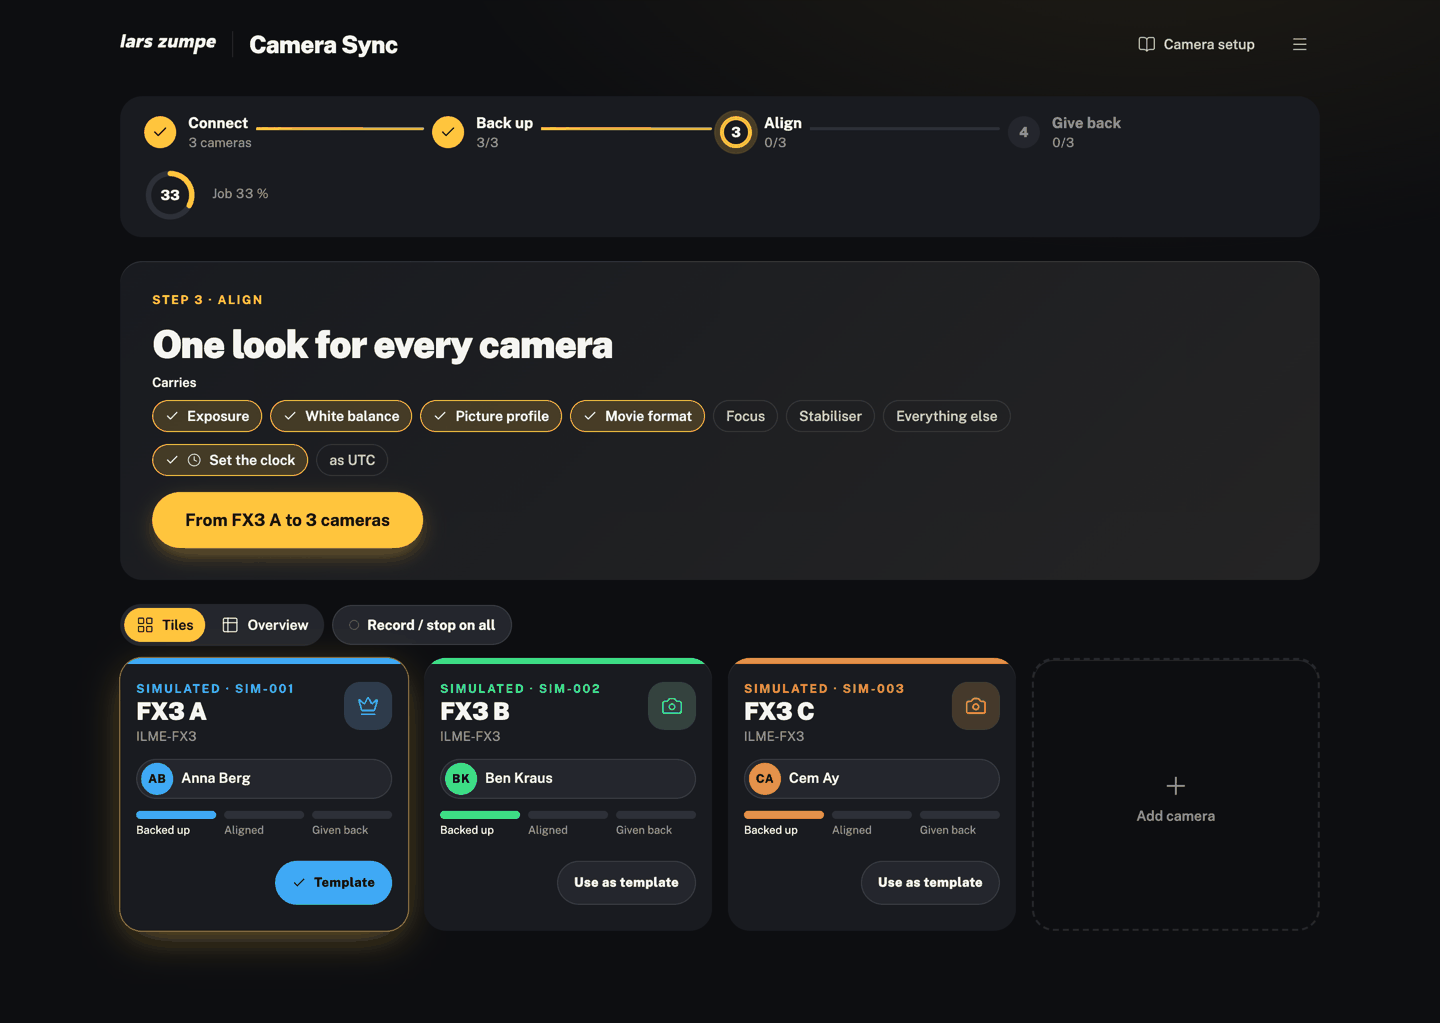
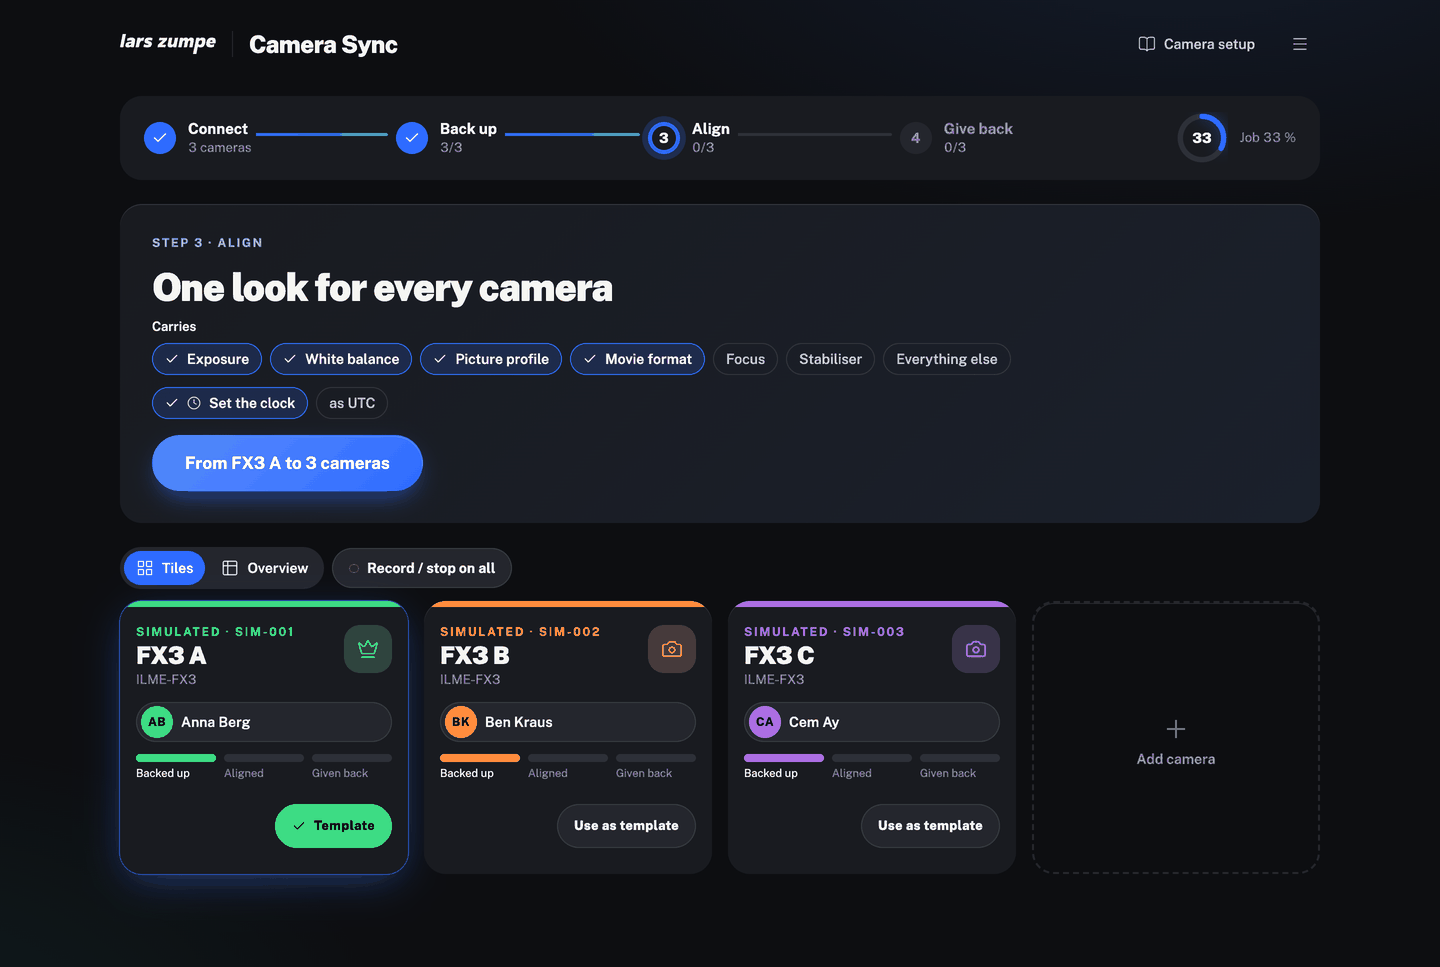
Moderner Stil: blauer Akzent statt Bernstein (#32)
Elektrisches Blau als Akzent (Verlauf auf der Hauptaktion, blauer
Lichtschein, blauer Fokusring, blauer Fortschrittsring). Kamerafarben
führen kein reines Blau mehr, damit die Gerätefarbe nicht mit der
Oberfläche verwechselt wird.

Dazu zwei Punkte aus der Sichtung:
- Gesperrte Hauptaktion war durch opacity .4 auf der Akzentfläche
  schlammig mit dunkler Schrift; sie ist jetzt eine ruhige neutrale Pille.
- Das Fortschrittsrad stand in einer eigenen, fast leeren Zeile; es sitzt
  jetzt am rechten Ende der Schrittzeile (auf dem Telefon weiter darunter).

Bildschirmfotos im README neu aufgenommen.

Claude-Session: https://claude.ai/code/session_012p9w1XBSZE29MVscQ4B3WC

diff --git a/src/ui/modern.css b/src/ui/modern.css
@@ -26,9 +26,11 @@
     --line-2: light-dark(#14161B1F, #FFFFFF1C);
     --line-3: light-dark(#14161B40, #FFFFFF33);
     --line-head: var(--line-2);
-    --accent: #FFC53D;
-    --accent-strong: light-dark(#B98400, #FFC53D);
-    --accent-text: #1B1500;
+    --accent: light-dark(#1B55E0, #2E6BFF);
+    --accent-2: light-dark(#3D78FF, #5B8CFF);
+    --accent-strong: light-dark(#1646BE, #8FB4FF);
+    --accent-text: #FFFFFF;
+    --accent-soft: color-mix(in oklab, var(--accent) 16%, transparent);
     --state: var(--text-strong);
     --ok: light-dark(#1E9E5A, #3DDC84);
     --warn: light-dark(#D9771E, #FF9F43);
@@ -42,7 +44,13 @@
     --control-h: 40px;
     --row-h: 38px;
 
-    body { background: radial-gradient(1200px 600px at 80% -10%, light-dark(#FFE9B020, #FFC53D14), transparent 60%), var(--surface-0); background-attachment: fixed; }
+    body {
+      background:
+        radial-gradient(1100px 560px at 82% -12%, light-dark(#1F5FEA1A, #4D8BFF1F), transparent 62%),
+        radial-gradient(900px 520px at -10% 108%, light-dark(#2ED3C614, #2ED3C614), transparent 60%),
+        var(--surface-0);
+      background-attachment: fixed;
+    }
     .app { font-size: .9375rem; }
 
     /* Kopf */
@@ -54,8 +62,23 @@
     button { border-radius: var(--r-ctl); border-color: var(--line-2); background: var(--surface-2); transition: background-color var(--dur-1) var(--ease), border-color var(--dur-1) var(--ease), color var(--dur-1) var(--ease), scale var(--dur-2) var(--spring), box-shadow var(--dur-2) var(--ease); }
     button:hover { border-color: var(--line-3); background: var(--surface-3); }
     button:active:not(:disabled) { scale: .96; }
-    button.primary { background: var(--accent); color: var(--accent-text); border-color: transparent; box-shadow: 0 8px 24px -8px color-mix(in oklab, var(--accent) 70%, transparent); }
-    button.primary:hover { background: color-mix(in oklab, var(--accent), #fff 12%); }
+    button.primary {
+      background: linear-gradient(135deg, var(--accent-2), var(--accent));
+      color: var(--accent-text); border-color: transparent;
+      box-shadow: 0 10px 26px -10px color-mix(in oklab, var(--accent) 85%, transparent),
+                  inset 0 1px 0 color-mix(in oklab, #fff 26%, transparent);
+    }
+    button.primary:hover {
+      background: linear-gradient(135deg, color-mix(in oklab, var(--accent-2), #fff 10%), color-mix(in oklab, var(--accent), #fff 8%));
+      box-shadow: 0 14px 32px -10px color-mix(in oklab, var(--accent) 95%, transparent),
+                  inset 0 1px 0 color-mix(in oklab, #fff 30%, transparent);
+    }
+    /* Gesperrt heisst ruhig, nicht trueb: keine Deckkraft auf der Akzentflaeche. */
+    button:disabled { opacity: .55; }
+    button.primary:disabled, button.step-btn:disabled {
+      opacity: 1; background: var(--surface-2); color: var(--text-muted);
+      border-color: var(--line-2); box-shadow: none;
+    }
     button.big { border-radius: 999px; min-block-size: 56px; padding-inline: var(--space-8); font-size: 1.0625rem; }
     button.ghost { background: transparent; border-color: transparent; }
     .tile-main, .overview-cam { background: none; border: 0; border-radius: 0; padding: 0; }
@@ -71,7 +94,8 @@
     .password-eye { background: transparent; border-radius: 0 12px 12px 0; }
 
     /* Job-Leiste: runde Stationen, Ring */
-    .track { padding: var(--space-4) var(--space-6); background: var(--surface-1); border-radius: var(--r-card); }
+    .track { display: flex; align-items: center; gap: var(--space-6); padding: var(--space-4) var(--space-6); background: var(--surface-1); border-radius: var(--r-card); }
+    .track > ol { flex: 1; min-inline-size: 0; }
     .track li:not(:last-child)::after { block-size: 3px; border-radius: 3px; inset-block-start: 15px; background: var(--surface-3); }
     .track li.is-done:not(:last-child)::after { background: linear-gradient(90deg, var(--accent), color-mix(in oklab, var(--accent), var(--ok) 50%)); }
     .station { border-radius: 999px; background: var(--surface-2); border: 0; }
@@ -80,12 +104,12 @@
     .station-back:hover { background: var(--surface-2); }
     .track li.is-current .station { background: transparent; box-shadow: inset 0 0 0 2px var(--accent); color: var(--text-strong); animation: atem 2.4s var(--ease) infinite; }
     .track li.is-done .station { background: var(--accent); color: var(--accent-text); animation: plopp var(--dur-3) var(--spring); }
-    .track-meter { gap: var(--space-4); }
+    .track-meter { flex: none; gap: var(--space-3); margin-block-start: 0; }
     .track-meter .progress { display: none; }
     .ring { display: block; inline-size: 52px; block-size: 52px; flex: none; rotate: -90deg; }
     .ring circle { fill: none; stroke-width: 5; }
     .ring-track { stroke: var(--surface-3); }
-    .ring-fill { stroke: var(--accent); stroke-linecap: round; transition: stroke-dashoffset 700ms var(--ease); }
+    .ring-fill { stroke: var(--accent); stroke-linecap: round; filter: drop-shadow(0 0 6px color-mix(in oklab, var(--accent) 45%, transparent)); transition: stroke-dashoffset 700ms var(--ease); }
     .ring text { rotate: 90deg; transform-origin: 24px 24px; fill: var(--text-strong); font: 800 13px var(--font); }
 
     /* Fortschritt */
@@ -125,7 +149,7 @@
     .pips li.is-done .pip-label { color: var(--text-strong); }
 
     .template-btn, .step-btn { border-radius: 999px; min-block-size: 44px; padding-inline: var(--space-4); font-weight: 800; letter-spacing: .02em; }
-    .step-btn { inline-size: 64px; block-size: 64px; padding: 0; background: var(--accent); color: var(--accent-text); border: 0; font-size: .6875rem; text-transform: uppercase; box-shadow: 0 8px 22px -8px color-mix(in oklab, var(--accent) 80%, transparent); }
+    .step-btn { inline-size: 64px; block-size: 64px; padding: 0; background: linear-gradient(135deg, var(--accent-2), var(--accent)); color: var(--accent-text); border: 0; font-size: .6875rem; text-transform: uppercase; box-shadow: 0 8px 22px -8px color-mix(in oklab, var(--accent) 80%, transparent); }
     .template-btn.is-on { background: var(--cam); color: #111; border-color: transparent; }
     .tile-foot { min-block-size: 64px; }
 
@@ -183,7 +207,8 @@
     .table th { border-block-end-color: var(--line-2); }
 
     @media (max-width: 640px) {
-      .track { padding: var(--space-3); }
+      .track { display: block; padding: var(--space-3); }
+      .track-meter { margin-block-start: var(--space-3); }
       .station-label, .station-back { background: transparent; }
       .next { padding: var(--space-6) var(--space-4); }
       .sheet { border-radius: 28px 28px 0 0; }

diff --git a/src/ui/App.tsx b/src/ui/App.tsx
@@ -487,8 +487,9 @@ function Chip({ on, onToggle, children }: { on: boolean; onToggle: (on: boolean)
 
 const BUSY_INDEX: Record<string, number> = { backup: 0, push: 1, restore: 2 }
 
-/** Tentacle-style identity colour per camera, stable by the order cameras were first seen. */
-const CAM_COLORS = ['#3FA9F5', '#3DDC84', '#FF8A3D', '#A66CFF', '#FFD23F', '#FF5FA2', '#2ED3C6', '#FF5A4E']
+/** Tentacle-style identity colour per camera, stable by the order cameras were first seen.
+ *  No plain blue in the list: that is the accent of the interface itself. */
+const CAM_COLORS = ['#3DDC84', '#FF8A3D', '#A66CFF', '#2ED3C6', '#FFD23F', '#FF5FA2', '#B6F09C', '#FF5A4E']
 const camColor = (data: Persisted, serial: string) => CAM_COLORS[Math.max(0, Object.keys(data.cameras).indexOf(serial)) % CAM_COLORS.length]
 
 function CameraTile(p: { l: Live; data: Persisted; phase: Phase; isTemplate: boolean; color: string; onStep?: () => void; onTemplate: () => void; onOpen: () => void; onOperator: () => void }) {
